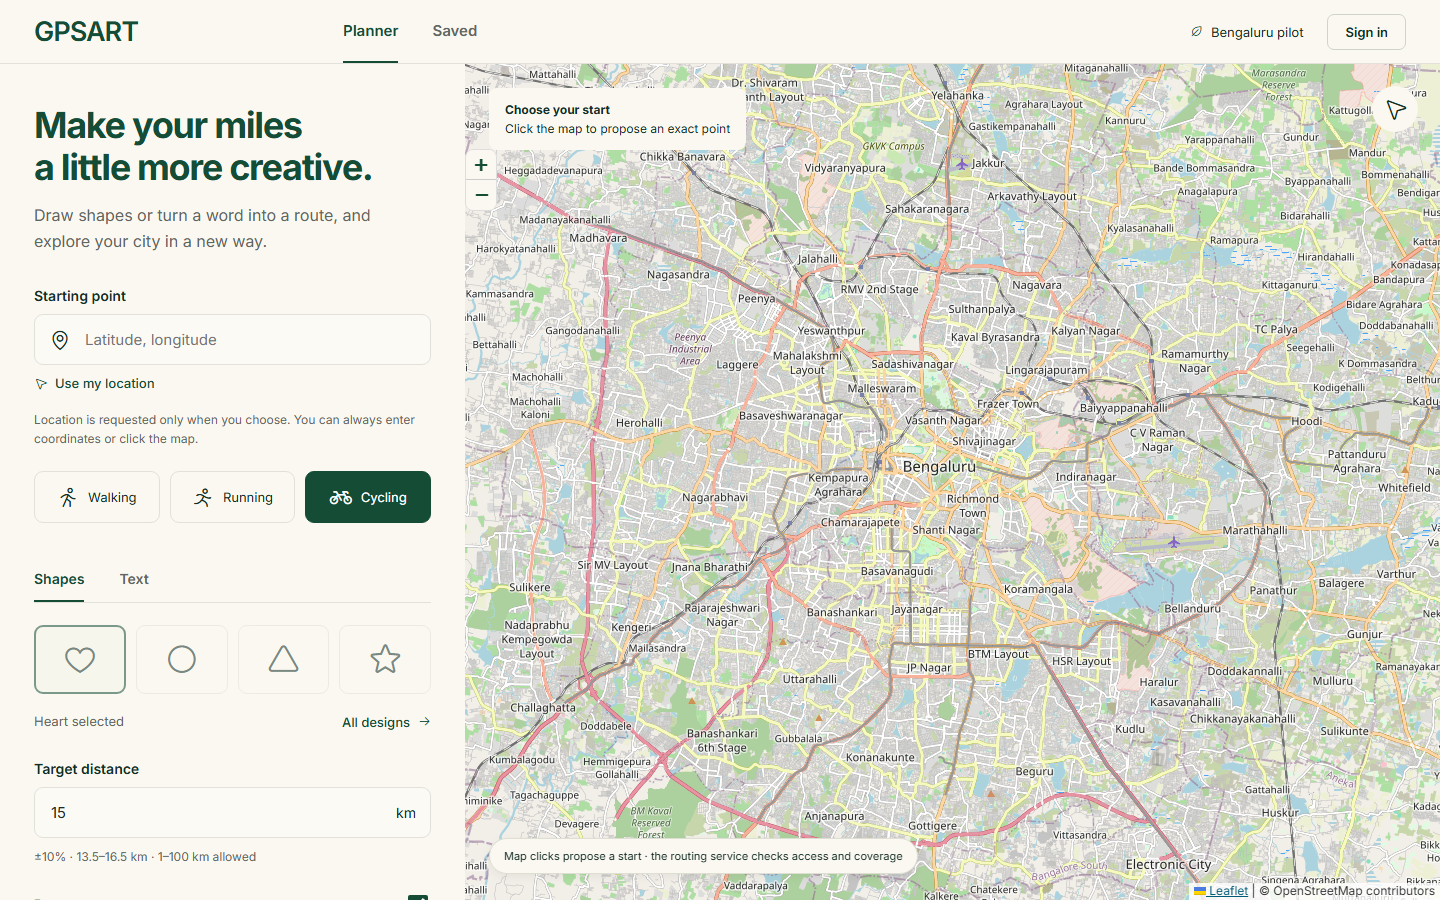
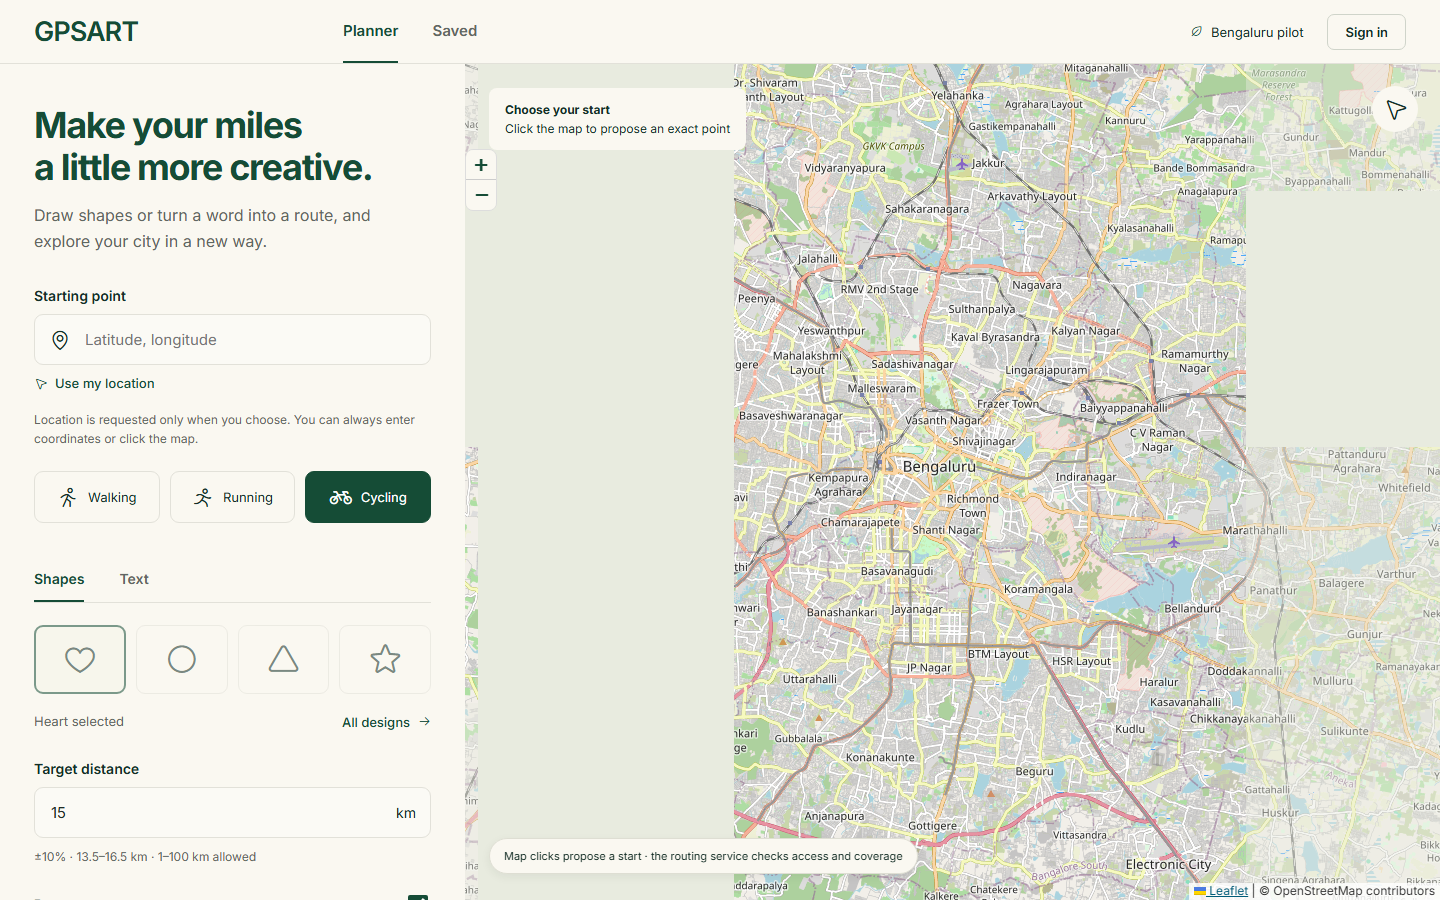
fix: close TS-304 accessibility gaps

diff --git a/src/styles.css b/src/styles.css
@@ -1,7 +1,7 @@
 :root{font-family:Inter,Arial,sans-serif;color:#142e26;background:#faf8f1;font-synthesis:none;--paper:#faf8f1;--green:#154c36;--muted:#777e7a;--line:#e2e1d9;--orange:#f58a23}*{box-sizing:border-box}body{margin:0}button,input,select{font:inherit}button,a,input,select{touch-action:manipulation}button,a{ -webkit-tap-highlight-color:transparent}button{cursor:pointer}a{color:inherit;text-decoration:none}button:disabled{opacity:.55;cursor:wait}button:focus-visible,a:focus-visible,input:focus-visible,select:focus-visible{outline:3px solid #dc9a30;outline-offset:3px}button{color:inherit}h1,h2,h3,p{margin:0}h1{font-size:36px;letter-spacing:-1.3px;line-height:1.18;color:var(--green)}h2{font-size:27px;letter-spacing:-.8px}h3{font-size:18px}p{line-height:1.6}.muted{color:var(--muted)}.small{font-size:13px;line-height:1.5}.eyebrow{font-size:11px;font-weight:700;letter-spacing:1.8px;text-transform:uppercase;color:var(--green)}.skip{position:fixed;top:-100px;background:white;padding:15px;z-index:10000}.skip:focus{top:0}.header{height:64px;display:flex;align-items:center;gap:45px;padding:0 34px;border-bottom:1px solid var(--line);background:var(--paper);position:relative;z-index:600}.brand{font-size:27px;font-weight:600;letter-spacing:-1px;color:var(--green)}.nav{display:flex;gap:34px;height:100%;margin-left:160px;align-items:stretch}.nav a{display:flex;align-items:center;border-bottom:2px solid transparent;font-size:15px;font-weight:600;color:#7d837e}.nav a.active{border-color:var(--green);color:var(--green)}.header-end{margin-left:auto;display:flex;gap:24px;align-items:center}.pilot{font-size:13px;display:flex;gap:8px;align-items:center;white-space:nowrap}.pilot i{color:var(--green)}.signin{padding:9px 17px;border:1px solid #cfd4ca;border-radius:7px;font-size:13px;font-weight:600}.workspace{height:calc(100dvh - 64px);min-height:760px;display:grid;grid-template-columns:465px 1fr}.panel{padding:40px 34px 28px;overflow:auto;background:var(--paper);z-index:450;scrollbar-width:thin}.intro{margin-bottom:33px}.intro p{margin-top:14px;color:var(--muted);font-size:16px;max-width:360px}.field{margin:20px 0}.field label,.label{display:block;font-size:14px;font-weight:600;margin-bottom:10px}.inputwrap{display:flex;align-items:center;gap:12px;border:1px solid var(--line);border-radius:9px;padding:0 14px;height:51px;background:#ffffff55}.inputwrap input{border:0;outline:0;background:transparent;min-width:0;flex:1;font-size:15px;color:#202b25;width:100%}.inputwrap i{font-size:22px}.inputwrap span{font-size:14px}.textbutton{border:0;background:transparent;font-size:13px;padding:10px 0;display:inline-flex;align-items:center;gap:8px;color:var(--green);font-weight:500}.activities{display:flex;gap:10px;margin:22px 0 31px}.activity{border:1px solid var(--line);border-radius:9px;flex:1;padding:14px 5px;background:transparent;font-size:13px;display:flex;align-items:center;justify-content:center;gap:9px;min-height:48px}.activity i{font-size:22px}.activity.selected{background:var(--green);color:white;border-color:var(--green)}.tabs{display:flex;border-bottom:1px solid var(--line);gap:35px;margin-bottom:22px}.tabs button{padding:16px 0 13px;border:0;border-bottom:2px solid transparent;background:none;color:var(--muted);font-weight:600;font-size:14px}.tabs button.active{border-color:var(--green);color:var(--green)}.designs{display:grid;grid-template-columns:repeat(4,1fr);gap:10px;margin-bottom:30px}.design{height:69px;background:none;border:1px solid var(--line);border-radius:9px;display:flex;flex-direction:column;gap:5px;align-items:center;justify-content:center}.design i{font-size:34px;font-weight:400}.design b{font-size:24px;letter-spacing:1px}.design.selected{border:2px solid var(--green);background:#f5f5e9}.design-name{font-size:12px;color:#66756d}.catalogue .designs{grid-template-columns:repeat(3,1fr);gap:14px}.catalogue .design{height:118px}.between{display:flex;align-items:center;justify-content:space-between;gap:12px}.toggle{display:flex;align-items:center;gap:8px;cursor:pointer}.toggle input{width:20px;height:20px;accent-color:var(--green)}.settings{margin:26px 0}.primary,.secondary,.danger{border:0;border-radius:9px;padding:16px 20px;font-weight:600;display:inline-flex;align-items:center;justify-content:center;gap:10px;font-size:14px;min-height:48px}.primary{background:var(--green);color:white}.primary:hover{background:#0e3c29}.secondary{border:1px solid var(--line);background:transparent}.secondary:hover{background:#efeee5}.danger{background:#f8ebe5;color:#923d2b}.full{width:100%}.primary i,.secondary i{font-size:19px}.helper{font-size:12px;color:var(--muted);margin-top:9px}.error{font-size:13px;color:#963c27;margin:10px 0}.divider{border:0;border-top:1px solid var(--line);margin:24px 0}.map-wrap{position:relative;min-width:0;overflow:hidden;background:#e8ebdf}.map{height:100%;width:100%;background:#e8ebdf}.leaflet-container{font-family:Inter,Arial,sans-serif!important;background:#e8ebdf!important}.map-note{position:absolute;bottom:26px;left:24px;z-index:430;background:var(--paper);border:1px solid #deded3;border-radius:25px;padding:10px 14px;font-size:11px;box-shadow:0 3px 10px #25341d10;max-width:calc(100% - 100px)}.map-label{position:absolute;top:24px;left:24px;z-index:430;background:var(--paper);border-radius:8px;padding:12px 16px;font-size:12px;line-height:1.6;max-width:75%}.north{position:absolute;right:22px;top:22px;background:var(--paper);z-index:430;border-radius:50%;width:46px;height:46px;display:grid;place-items:center;font-size:24px}.map .leaflet-control-zoom{border:1px solid #ddd!important;border-radius:8px!important;overflow:hidden;margin:85px 23px 0 0!important}.map .leaflet-control-zoom a{background:var(--paper)!important;color:var(--green)!important}.leaflet-tooltip{border:0!important;background:var(--green)!important;color:white!important;border-radius:6px!important;font-size:11px!important;box-shadow:none!important}.leaflet-tooltip-top:before{border-top-color:var(--green)!important}.section-top{margin-bottom:26px}.section-top .textbutton{margin-bottom:15px}.section-top h1{font-size:31px}.section-top p{margin-top:12px}.summary{background:#eeeee3;padding:16px;border-radius:8px;font-size:13px;line-height:1.9;margin:22px 0}.summary strong{display:block;font-size:15px}.route-card{width:100%;text-align:left;padding:20px 17px;border:1px solid var(--line);border-radius:10px;background:transparent;margin-bottom:12px}.route-card.selected{border:2px solid var(--green);padding:19px 16px;background:#f1f3e8}.route-card .distance{font-size:29px;font-weight:600;letter-spacing:-1px;display:block;margin:10px 0}.route-card .distance small{font-size:14px;font-weight:400;margin-left:5px}.route-card .tag{font-size:12px;color:var(--green);font-weight:600}.route-meta{font-size:12px;color:#657068;display:flex;gap:13px;flex-wrap:wrap;line-height:1.6}.match-icon{font-size:19px}.actions{display:flex;gap:10px;flex-wrap:wrap;margin-top:22px}.actions>*{flex:1}.metrics{display:grid;grid-template-columns:1fr 1fr;gap:20px;margin:24px 0}.metric strong{display:block;font-size:25px;margin-bottom:4px}.metric span{font-size:12px;color:var(--muted)}.rows{margin:22px 0}.row{display:flex;justify-content:space-between;padding:12px 0;border-bottom:1px solid var(--line);font-size:13px;gap:20px}.instructions{padding:0;list-style:none;counter-reset:steps}.instructions li{counter-increment:steps;display:flex;gap:14px;padding:16px 0;border-bottom:1px solid var(--line);font-size:13px;line-height:1.6}.instructions li:before{content:counter(steps);font-weight:700;color:var(--green)}.stage-list{list-style:none;padding:0;margin:28px 0}.stage-list li{padding:18px 0;border-bottom:1px solid var(--line);display:flex;align-items:center;gap:14px;font-size:14px}.stage-list .done{color:var(--green)}.stage-list .pending{color:#a0a69d}.pulse{animation:pulse 1.4s infinite}@keyframes pulse{50%{opacity:.35}}.hero-icon{font-size:48px;color:var(--green);margin:25px 0;display:block}.empty-space{padding:22px 0}.notice{background:#f2efe0;padding:15px;border-radius:8px;font-size:12px;line-height:1.7;color:#626446;margin:18px 0}.saved-row{padding:22px 0;border-bottom:1px solid var(--line)}.saved-row h3{margin-bottom:8px}.saved-row .textbutton{margin-right:18px}.auth-layout{min-height:calc(100dvh - 64px);display:grid;grid-template-columns:1fr 1fr}.auth-form{display:flex;align-items:center;justify-content:center;padding:60px 35px}.auth-inner{width:390px;max-width:100%}.auth-inner h1{font-size:39px;margin:17px 0}.auth-inner>p{margin-bottom:30px;color:var(--muted);font-size:15px}.google{background:white;border:1px solid #c7cbc4;border-radius:7px;min-height:48px;width:100%;display:flex;align-items:center;justify-content:center;gap:12px;font-weight:500;font-size:14px}.google img{width:20px;height:20px}.auth-art{position:relative;min-height:650px;background:#e9ecdf;overflow:hidden}.auth-art img{width:100%;height:100%;object-fit:cover;position:absolute}.auth-quote{position:absolute;bottom:50px;left:40px;right:40px;background:var(--paper);padding:28px;border-radius:10px}.auth-quote h2{font-size:31px;line-height:1.25;color:var(--green);margin-bottom:13px}.or{display:flex;align-items:center;gap:14px;color:#92968d;font-size:12px;margin:24px 0}.or:before,.or:after{content:'';height:1px;background:var(--line);flex:1}.auth-checks{list-style:none;padding:0;margin:25px 0}.auth-checks li{display:flex;gap:10px;align-items:center;padding:8px 0;font-size:13px}.auth-checks i{font-size:18px}.avatar{width:64px;height:64px;display:grid;place-items:center;background:#e9eddd;border-radius:50%;font-size:26px;margin-bottom:20px}.demo-strip{font-size:11px;padding:10px 15px;background:#e9ede1;border:1px solid #d6decb;border-radius:6px;margin:22px 0;line-height:1.6}.screen-index{max-width:1100px;margin:0 auto;padding:55px 28px}.screen-index h1{margin:12px 0 18px}.screen-list{display:grid;grid-template-columns:repeat(3,1fr);gap:16px;margin-top:30px}.screen-link{border:1px solid var(--line);border-radius:10px;padding:22px;background:#fff9}.screen-link:hover{border-color:var(--green)}.screen-link h3{margin:8px 0}.screen-link p{font-size:13px;color:var(--muted)}dialog{border:1px solid var(--line);border-radius:14px;padding:30px;background:var(--paper);color:var(--green);width:420px;max-width:calc(100% - 32px)}dialog::backdrop{background:#172a2060}dialog p{margin:14px 0;color:var(--muted);font-size:14px}#toast{position:fixed;bottom:25px;left:50%;transform:translateX(-50%);z-index:2000;background:#163e2e;color:white;padding:15px 24px;border-radius:9px;font-size:13px;display:none;max-width:90%;box-shadow:0 6px 30px #142b2333}#toast.show{display:block}.mobile-expand{display:none}.row select{border:1px solid var(--line);background:var(--paper);padding:8px;border-radius:5px}.storage-name{font-size:11px;color:var(--muted)}
 @media(min-width:1600px){.workspace{grid-template-columns:490px 1fr}.panel{padding:44px 38px}.intro{margin-bottom:40px}}
 @media(max-width:1100px){.workspace{grid-template-columns:390px 1fr}.panel{padding:30px 25px}.nav{margin-left:30px}.header{padding:0 25px;gap:25px}h1{font-size:32px}.header-end{gap:15px}.pilot{font-size:11px}.activity{gap:5px;font-size:12px}.intro p{font-size:15px}}
-@media(max-width:700px){.header{height:60px;padding:0 18px;gap:16px}.brand{font-size:23px}.nav{margin-left:auto;gap:17px}.nav a{font-size:12px}.header-end{margin-left:0;gap:0}.pilot{display:none}.signin{font-size:12px;padding:8px 11px}.workspace{height:auto;min-height:calc(100dvh - 60px);display:flex;flex-direction:column}.map-wrap{height:280px;flex:none;order:0}.panel{order:1;padding:26px 22px 32px;border-radius:20px 20px 0 0;margin-top:-15px;position:relative;overflow:visible}.intro{margin-bottom:24px}.intro h1{font-size:30px;max-width:340px}.intro p{font-size:14px;max-width:none}.map-note{bottom:25px;left:15px;font-size:9px;padding:8px 11px}.map-label{top:15px;left:15px;font-size:11px;padding:8px 12px}.north{top:14px;right:15px;width:35px;height:35px;font-size:20px}.map .leaflet-control-zoom{margin:61px 15px 0 0!important}.mobile-expand{display:block;background:none;border:0;font-size:12px;margin:0 auto 20px;color:var(--muted)}.workspace.expanded .map-wrap{height:60dvh}.activities{margin:20px 0}.designs{margin-bottom:24px}.field{margin:18px 0}.settings{margin:22px 0}.auth-layout{min-height:calc(100dvh - 60px);grid-template-columns:1fr}.auth-form{padding:42px 24px}.auth-art{min-height:320px}.auth-quote{bottom:25px;left:24px;right:24px;padding:20px}.auth-quote h2{font-size:25px}.auth-inner h1{font-size:34px}.screen-list{grid-template-columns:1fr}.screen-index{padding:30px 22px}.section-top h1{font-size:29px}.header .nav a.active{border-bottom:2px solid var(--green)}.storage-name{display:none}.map-wrap .leaflet-control-attribution{font-size:8px}.actions{margin-top:20px}.auth-art .map-note{display:none}}
+@media(max-width:700px){.header{height:60px;padding:0 18px;gap:16px}.brand{font-size:23px}.nav{margin-left:auto;gap:17px}.nav a{font-size:12px}.header-end{margin-left:0;gap:0}.pilot{display:none}.signin{font-size:12px;padding:8px 11px}.workspace{height:auto;min-height:calc(100dvh - 60px);display:flex;flex-direction:column}.map-wrap{height:280px;flex:none;order:0}.panel{order:1;padding:26px 22px 32px;border-radius:20px 20px 0 0;margin-top:-15px;position:relative;overflow:visible}.intro{margin-bottom:24px}.intro h1{font-size:30px;max-width:340px}.intro p{font-size:14px;max-width:none}.map-note{bottom:25px;left:15px;font-size:9px;padding:8px 11px}.map-label{top:15px;left:15px;font-size:11px;padding:8px 12px}.north{top:14px;right:15px;width:35px;height:35px;font-size:20px}.map .leaflet-control-zoom{margin:61px 15px 0 0!important}.mobile-expand{display:block;background:none;border:0;font-size:12px;margin:0 auto 20px;color:var(--muted)}.workspace.expanded .map-wrap{height:60dvh}.activities{margin:20px 0}.designs{margin-bottom:24px}.field{margin:18px 0}.settings{margin:22px 0}.auth-layout{min-height:calc(100dvh - 60px);grid-template-columns:1fr}.auth-form{padding:42px 24px;min-width:0}.auth-art{min-height:320px}.auth-quote{bottom:25px;left:24px;right:24px;padding:20px}.auth-quote h2{font-size:25px}.auth-inner h1{font-size:34px}.screen-list{grid-template-columns:1fr}.screen-index{padding:30px 22px}.section-top h1{font-size:29px}.header .nav a.active{border-bottom:2px solid var(--green)}.storage-name{display:none}.map-wrap .leaflet-control-attribution{font-size:8px}.actions{margin-top:20px}.auth-art .map-note{display:none}}
 
 .route-tags{display:block;min-height:20px}.route-legend{position:absolute;right:22px;bottom:26px;z-index:430;display:grid;gap:7px;background:var(--paper);border:1px solid #deded3;border-radius:8px;padding:11px 13px;font-size:11px}.route-legend span{display:flex;align-items:center;gap:7px}.route-legend i{display:inline-block;width:20px;border-top:4px solid var(--green)}.route-legend .legend-alt{border-color:#7d837e}.route-legend .legend-connector{border-color:var(--orange);border-top-style:dashed}.route-traversals li:before{content:none}.route-traversals li{display:list-item;margin-left:20px;padding-left:4px}.route-card:focus-visible{outline-offset:1px}@media(max-width:700px){.route-legend{right:15px;bottom:62px;font-size:9px;max-width:180px}.route-map-wrap{height:360px}.route-map-wrap .map-note{max-width:calc(100% - 30px)}}
 .map-art{width:100%;height:100%;object-fit:cover;display:block}.confirmation{margin-top:22px;padding:20px;border:1px solid var(--line);border-radius:10px;background:#f1f3e8}.confirmation h3{margin:8px 0}.confirmation .actions{margin-top:14px}
@@ -11,3 +11,4 @@
 .catalogue .design{min-height:118px;height:auto;padding:12px 6px}.design-status{font-size:10px;line-height:1.25;color:#765f51;max-width:120px}
 .field-error:before{content:"Error: ";font-weight:700}.inputwrap:has([aria-invalid="true"]){border:2px solid #963c27}.sr-only{position:absolute!important;width:1px!important;height:1px!important;padding:0!important;margin:-1px!important;overflow:hidden!important;clip:rect(0,0,0,0)!important;white-space:nowrap!important;border:0!important}dialog input{width:100%;min-height:48px;border:1px solid var(--line);border-radius:8px;padding:10px 12px;background:white;color:#142e26}
 :root{--muted:#5f6762}.nav a{color:#5f6762}.leaflet-control-attribution a{color:#005b78!important;text-decoration:underline!important;text-decoration-thickness:1px!important}
+.or{color:var(--muted)}

diff --git a/tests/accessibility.test.ts b/tests/accessibility.test.ts
@@ -3,6 +3,7 @@ import { readFile } from "node:fs/promises";
 import test from "node:test";
 
 import { renderScreen } from "../src/app/screen-controller.ts";
+import { renderMap } from "../src/app/map.ts";
 import { initialState } from "../src/app/state.ts";
 import type { PlannerWorkflowSnapshot } from "../src/client/planner-workflow.ts";
 import { routeSnapshot } from "./fixtures/route-snapshot.ts";
@@ -77,6 +78,8 @@ test("responsive shell keeps controls reachable and honours reduced motion", asy
 
   assert.match(css, /@media\(max-width:700px\)[\s\S]*\.workspace[^}]*width:100%/);
   assert.match(css, /\.primary,.secondary,.danger\{[^}]*min-height:48px/);
+  assert.match(css, /\.auth-form\{[^}]*min-width:0/);
+  assert.match(css, /\.or\{color:var\(--muted\)\}/);
   assert.match(css, /@media\(prefers-reduced-motion:reduce\)[\s\S]*animation:none!important/);
   assert.doesNotMatch(css, /html,body,#app\{[^}]*overflow-x:hidden/);
 });
@@ -98,4 +101,11 @@ test("saved-route rename is a labelled dialog with field help", () => {
   assert.match(markup, /<dialog id="rename-route-dialog"[^>]*aria-labelledby="rename-route-title"/);
   assert.match(markup, /<label for="rename-route-name">Route name<\/label>/);
   assert.match(markup, /id="rename-route-name"[^>]*aria-describedby="rename-route-help"/);
+});
+
+test("every map surface gives the north indicator a valid image role and name", () => {
+  for (const screen of ["planner", "catalogue", "saved", "results"] as const) {
+    const markup = renderMap(screen, initialState());
+    assert.match(markup, /class="north" role="img" aria-label="North(?:, map is north up)?"/, screen);
+  }
 });

diff --git a/src/app/map.ts b/src/app/map.ts
@@ -29,5 +29,5 @@ export function renderMap(screen: Screen, state: AppState): string {
   const label = preview
     ? `<div class="map-label"><strong>${state.request.design} design preview</strong><br>Illustrative artwork only</div>`
     : `<div class="map-label"><strong>Route geometry unavailable</strong><br>A validated routing result is required.</div>`;
-  return `<section class="map-wrap" aria-label="${preview ? "Illustrative design map" : "Route map unavailable"}"><img class="map-art" src="/assets/map.jpg" alt="Pale illustrative street-map artwork of Bengaluru">${label}<div class="north" aria-label="North"><i class="ph ph-navigation-arrow" aria-hidden="true"></i></div><div class="map-note">${preview ? "Illustrative design preview · not for navigation" : "No route is displayed · routing service not connected"}</div></section>`;
+  return `<section class="map-wrap" aria-label="${preview ? "Illustrative design map" : "Route map unavailable"}"><img class="map-art" src="/assets/map.jpg" alt="Pale illustrative street-map artwork of Bengaluru">${label}<div class="north" role="img" aria-label="North"><i class="ph ph-navigation-arrow" aria-hidden="true"></i></div><div class="map-note">${preview ? "Illustrative design preview · not for navigation" : "No route is displayed · routing service not connected"}</div></section>`;
 }

diff --git a/docs/evidence/ts-304-accessibility-verification.md b/docs/evidence/ts-304-accessibility-verification.md
@@ -9,7 +9,7 @@ Verified on 2026-10-06 against the production client build.
 3. Invalid planner fields receive `aria-invalid`, field-specific `role="alert"` messages, and matching `aria-describedby` references. Error text begins with “Error:” visually, while selected controls expose `aria-pressed`, `aria-selected`, or native checked state.
 4. The native modal rename dialog focuses its labelled input on open and restores focus to its opener on close. The mobile panel remains a normal document region rather than a focus trap. Job stages are exposed as a named step list; a persistent polite announcer changes only when the observed job stage changes.
 5. Exact latitude/longitude entry, on-demand geolocation, and search selection remain available without clicking the map. Candidate details retain the complete traversal list and structured text instructions when map tiles fail.
-6. `axe-core` WCAG 2 A/AA, 2.1 AA, and 2.2 AA checks reported zero serious or critical findings at all three widths. The keyboard smoke confirmed the skip link is first, planner controls are reachable, arrow keys move both selection and focus between tabs, and focus remains visibly outlined. Chromium’s platform accessibility tree exposed “Starting point” as a textbox, “Shapes”/“Text” as tabs, and activity choices as buttons, providing the screen-reader smoke for names and roles.
+6. `axe-core` WCAG 2 A/AA, 2.1 AA, and 2.2 AA checks reported zero serious or critical findings at all three planner widths and on the materially distinct catalogue, saved, results, and login surfaces at 360 px. The keyboard smoke confirmed the skip link is first, planner controls are reachable, arrow keys move both selection and focus between tabs, and focus remains visibly outlined. Chromium’s platform accessibility tree exposed “Starting point” as a textbox, “Shapes”/“Text” as tabs, and activity choices as buttons, providing the screen-reader smoke for names and roles.
 
 ## Evidence
 
@@ -18,7 +18,7 @@ Verified on 2026-10-06 against the production client build.
 - `docs/evidence/ts-304-desktop-1440.png`
 - `docs/evidence/ts-304-axe-report.json` (includes viewport metrics, findings, keyboard order, tab behavior, and the accessibility-tree sample)
 
-The screenshots were visually inspected for clipped content, horizontal overflow, unreachable actions, and unintended visual-language changes. The 360 px view stacks the map and planner, while the 768 px and desktop views keep the planner and map side by side.
+The screenshots were visually inspected for clipped content, horizontal overflow, unreachable actions, and unintended visual-language changes. The 360 px view stacks the map and planner, while the 768 px and desktop views keep the planner and map side by side. Independent QA additionally forced a real saved-route state and caught the fallback north-indicator role defect; the permanent audit now covers every materially distinct surface and also prevents recurrence of mobile login overflow and contrast defects.
 
 ## Commands
 

diff --git a/factory/handoffs/TS-304-accessible-journey.md b/factory/handoffs/TS-304-accessible-journey.md
@@ -11,7 +11,7 @@ Planner validation uses `start-error` and `distance-error`, referenced from the 
 
 The saved-route rename action uses the native `rename-route-dialog`, focuses `rename-route-name`, and returns focus to the rename button after close. Mobile panels are non-modal document content and do not trap focus. Route generation uses a named step list with `aria-current="step"`; the persistent `#announcer` emits a polite update only for a newly observed job/stage key.
 
-The responsive contract covers 360, 768, and 1440 px without page-level horizontal overflow. Muted text and Leaflet attribution links meet the automated contrast/link-distinction checks, and reduced-motion disables animation.
+The responsive contract covers 360, 768, and 1440 px without page-level horizontal overflow. The production audit also exercises catalogue, saved, results, and login surfaces at 360 px. Muted text, the login separator, and Leaflet attribution links meet the automated contrast/link-distinction checks; mobile auth content can shrink below its desktop intrinsic width; every north indicator has image semantics; and reduced-motion disables animation.
 
 Verify with:
 
